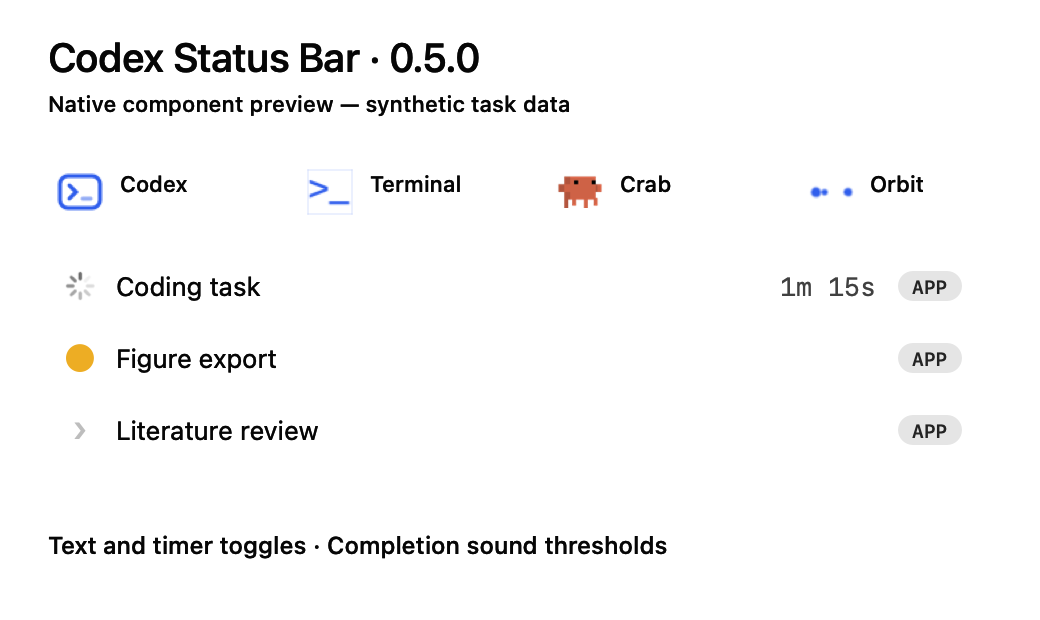
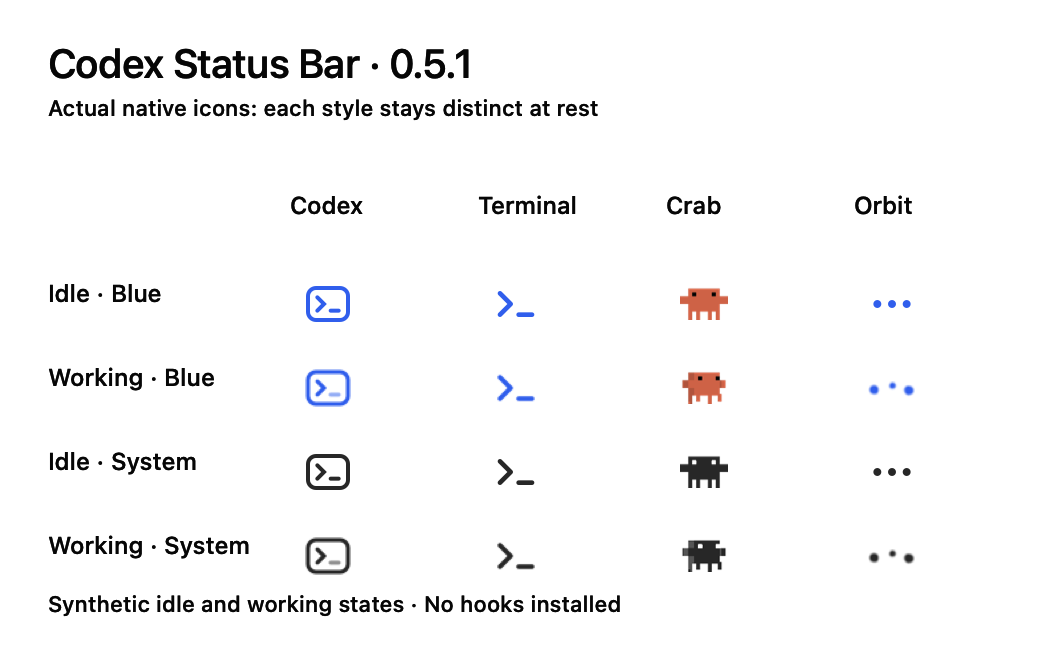
Keep all animation styles distinct while idle

diff --git a/tests/ui-smoke.swift b/tests/ui-smoke.swift
@@ -28,32 +28,67 @@ controller.showLabel = false
 precondition(controller.statusText(task, eff: "thinking").isEmpty)
 controller.showLabel = true
 
-let canvas = NSView(frame: NSRect(x: 0, y: 0, width: 520, height: 310))
+// Idle icons must differ at identical dimensions; selecting each menu item must update
+// the actual status button immediately, including after a working animation stops.
+let styles: [StatusController.AnimStyle] = [.web, .code, .crab, .mark]
+func pixels(_ image: NSImage) -> Data {
+    controller.flattened(image).tiffRepresentation!
+}
+for system in [false, true] {
+    controller.iconSystem = system
+    controller.iconCache.removeAll()
+    let color: NSColor? = system ? nil : controller.brand
+    var idleImages: [Data] = []
+    for style in styles {
+        let item = NSMenuItem(); item.representedObject = style.rawValue
+        controller.chooseStyle(item)
+        let expected = pixels(controller.restingIcon(color: color))
+        precondition(pixels(controller.statusItem.button!.image!) == expected, "Style selection did not update idle icon")
+        precondition(!idleImages.contains(expected), "Two animation styles share an idle icon")
+        idleImages.append(expected)
+        controller.render(label: "Working", color: color, animate: true, startedAt: now)
+        var moved = false
+        for _ in 0..<12 {
+            controller.animStep()
+            moved = moved || pixels(controller.statusItem.button!.image!) != expected
+        }
+        precondition(moved, "Working animation is frozen on its resting image")
+        controller.render(label: "", color: color, animate: false, startedAt: 0)
+        while controller.markOutro { controller.animStep() }
+        precondition(pixels(controller.statusItem.button!.image!) == expected, "Task completion lost selected style")
+    }
+}
+
+let canvas = NSView(frame: NSRect(x: 0, y: 0, width: 520, height: 330))
 canvas.wantsLayer = true; canvas.layer?.backgroundColor = NSColor.windowBackgroundColor.cgColor
 func label(_ text: String, x: CGFloat, y: CGFloat, size: CGFloat = 13) {
     let v = NSTextField(labelWithString: text); v.font = .systemFont(ofSize: size, weight: .medium)
     v.frame = NSRect(x: x, y: y, width: 475, height: 25); canvas.addSubview(v)
 }
-label("Codex Status Bar · 0.5.0", x: 22, y: 268, size: 20)
-label("Native component preview — synthetic task data", x: 22, y: 240, size: 11)
-for (i, style) in [StatusController.AnimStyle.web, .code, .crab, .mark].enumerated() {
-    controller.animStyle = style
-    for frame in [0, 4, 12] { precondition(controller.iconImage(color: controller.brand, frame: frame).size.width > 0) }
-    let image = NSImageView(frame: NSRect(x: 28 + i * 125, y: 202, width: 24, height: 24))
-    image.image = controller.iconImage(color: controller.brand, frame: style == .mark ? 20 : 4)
-    image.imageScaling = .scaleProportionallyUpOrDown; canvas.addSubview(image)
-    label(["Codex", "Terminal", "Crab", "Orbit"][i], x: CGFloat(58 + i * 125), y: 200, size: 11)
+label("Codex Status Bar · 0.5.1", x: 22, y: 285, size: 20)
+label("Actual native icons: each style stays distinct at rest", x: 22, y: 258, size: 11)
+for (i, name) in ["Codex", "Terminal", "Crab", "Orbit"].enumerated() {
+    label(name, x: CGFloat(143 + i * 94), y: 210, size: 12)
 }
-for (i, tuple) in [("Coding task", "tool", "Running command"), ("Figure export", "permission", "Awaiting permission"), ("Literature review", "done", "Done")].enumerated() {
-    let session = StatusController.Session(json: ["state": tuple.1, "label": tuple.2, "chatTitle": tuple.0, "entrypoint": "codex-app", "startedAt": now - 75, "ts": now], id: "preview-\(i)")
-    let row = SessionRowView(id: session.id, width: 475)
-    row.frame.origin = NSPoint(x: 18, y: 155 - i * 36)
-    controller.configureSessionRow(row, session, eff: controller.effectiveState(session, now: now)); canvas.addSubview(row)
+for (row, tuple) in [("Idle · Blue", false, false), ("Working · Blue", false, true),
+                     ("Idle · System", true, false), ("Working · System", true, true)].enumerated() {
+    let y = 166 - row * 42
+    label(tuple.0, x: 22, y: CGFloat(y), size: 12)
+    for (i, style) in styles.enumerated() {
+        controller.animStyle = style
+        let color: NSColor? = tuple.1 ? nil : controller.brand
+        let icon = tuple.2 ? controller.iconImage(color: color, frame: style == .mark ? 50 : 8)
+                          : controller.restingIcon(color: color)
+        let view = NSImageView(frame: NSRect(x: 152 + i * 94, y: y, width: 24, height: 24))
+        view.image = icon; view.imageScaling = .scaleProportionallyUpOrDown
+        if tuple.1 { view.contentTintColor = .labelColor }
+        canvas.addSubview(view)
+    }
 }
-label("Text and timer toggles · Completion sound thresholds", x: 22, y: 20, size: 12)
+label("Synthetic idle and working states · No hooks installed", x: 22, y: 10, size: 11)
 canvas.layoutSubtreeIfNeeded()
 let rep = canvas.bitmapImageRepForCachingDisplay(in: canvas.bounds)!
 canvas.cacheDisplay(in: canvas.bounds, to: rep)
 let output = ProcessInfo.processInfo.environment["CODEX_STATUSBAR_UI_IMAGE"]!
 try rep.representation(using: .png, properties: [:])!.write(to: URL(fileURLWithPath: output))
-print("AppKit checks passed: menu options, animation rendering, completion sound gating, duplicate/interrupt suppression, long-running state, text toggle.")
+print("AppKit checks passed: distinct idle styles, immediate menu selection, working/idle transitions in both colors, menu options and completion sound gating.")

diff --git a/Sources/main.swift b/Sources/main.swift
@@ -437,7 +437,7 @@ final class StatusController: NSObject, NSMenuDelegate {
     let codeDip: CGFloat = 0.14 // glyph shrinks to this at each swap
     let codeSub = 18            // sub-frames per glyph (tween smoothness)
     let codeCycle: Double = 3.8 // seconds for the full loop (lower = faster)
-    lazy var codeGlyphMasks: [NSImage] = codeGlyphs.map { StatusController.glyphMask($0) }
+    lazy var codeGlyphMasks: [NSImage] = codeGlyphs.map { _ in StatusController.terminalMark() }
     let crabFPS: Double = 12.5 // matches the source GIF's 0.08s frame delay
     lazy var crabFrames: [NSImage] = StatusController.decodePNGs(clawdCrabFramePNGs)
     // Template frames: bright pixels (white eyes) become transparent holes so they're
@@ -1467,43 +1467,47 @@ final class StatusController: NSObject, NSMenuDelegate {
         return img
     }
 
-    // Rasterize a single glyph into a centered 60x60 alpha mask filling ~92%.
-    static func glyphMask(_ g: String) -> NSImage {
-        let attrs: [NSAttributedString.Key: Any] = [
-            .font: NSFont.systemFont(ofSize: 180), .foregroundColor: NSColor.black,
-        ]
-        let str = NSAttributedString(string: g, attributes: attrs)
-        let sz = str.size()
-        let big = NSImage(size: sz, flipped: false) { _ in str.draw(at: .zero); return true }
-        guard let rep = big.tiffRepresentation.flatMap(NSBitmapImageRep.init(data:)) else {
-            return NSImage(size: NSSize(width: 60, height: 60))
-        }
-        let w = rep.pixelsWide, h = rep.pixelsHigh, data = rep.bitmapData!
-        var minx = w, miny = h, maxx = -1, maxy = -1
-        for y in 0..<h { for x in 0..<w where data[(y*w+x)*4+3] > 20 {
-            minx = min(minx, x); maxx = max(maxx, x); miny = min(miny, y); maxy = max(maxy, y)
-        }}
-        guard maxx >= 0 else { return NSImage(size: NSSize(width: 60, height: 60)) }
-        let bw = CGFloat(maxx - minx + 1), bh = CGFloat(maxy - miny + 1)
-        let out: CGFloat = 60, fill = out * 0.92
-        let scale = fill / max(bw, bh)
-        let dw = bw * scale, dh = bh * scale
-        // NSBitmapImageRep origin is top-left; convert the bbox to bottom-left for drawing.
-        let srcRect = NSRect(x: CGFloat(minx), y: CGFloat(h - maxy - 1), width: bw, height: bh)
-        return NSImage(size: NSSize(width: out, height: out), flipped: false) { _ in
-            big.draw(in: NSRect(x: (out - dw)/2, y: (out - dh)/2, width: dw, height: dh),
-                     from: srcRect, operation: .sourceOver, fraction: 1.0)
+    // Keep each animation recognisable at rest, too. A shared Codex logo here made
+    // selecting Terminal or Orbit appear to do nothing until a task started.
+    static func terminalMark() -> NSImage {
+        let img = NSImage(size: NSSize(width: 18, height: 18), flipped: false) { _ in
+            NSColor.black.setStroke()
+            let prompt = NSBezierPath()
+            prompt.move(to: NSPoint(x: 3, y: 5))
+            prompt.line(to: NSPoint(x: 7, y: 9))
+            prompt.line(to: NSPoint(x: 3, y: 13))
+            prompt.lineWidth = 1.75; prompt.lineCapStyle = .round; prompt.lineJoinStyle = .round
+            prompt.stroke()
+            let cursor = NSBezierPath()
+            cursor.move(to: NSPoint(x: 10, y: 5)); cursor.line(to: NSPoint(x: 15, y: 5))
+            cursor.lineWidth = 1.75; cursor.lineCapStyle = .round; cursor.stroke()
             return true
         }
+        img.isTemplate = true
+        return img
+    }
+
+    static func orbitRestMark() -> NSImage {
+        let img = NSImage(size: NSSize(width: 18, height: 18), flipped: false) { _ in
+            NSColor.black.setFill()
+            for x: CGFloat in [2, 7.5, 13] {
+                NSBezierPath(ovalIn: NSRect(x: x, y: 7.5, width: 3, height: 3)).fill()
+            }
+            return true
+        }
+        img.isTemplate = true
+        return img
     }
 
     let logoSet: [NSImage] = [StatusController.codexMark()]
+    let orbitRestSet: [NSImage] = [StatusController.orbitRestMark()]
     func restingIcon(color: NSColor?) -> NSImage {
-        if animStyle == .crab { return crabIcon(color: color, frame: 0) }
-        if animStyle == .mark, let logo = logoSet.first {
-            return markLayer(logo, color: color, scale: markSparkScale)
+        switch animStyle {
+        case .web: return tint(logoSet, color: color, frame: 0)
+        case .code: return codeIcon(color: color, glyph: 0, scale: 1)
+        case .crab: return crabIcon(color: color, frame: 0)
+        case .mark: return tint(orbitRestSet, color: color, frame: 0)
         }
-        return tint(logoSet.isEmpty ? frames : logoSet, color: color, frame: 0)
     }
 
     func markLayer(_ mask: NSImage, color: NSColor?, scale: CGFloat) -> NSImage {
@@ -1541,8 +1545,8 @@ final class StatusController: NSObject, NSMenuDelegate {
             if tail < markFadeFrames { sparkAlpha = 1 - CGFloat(tail) / CGFloat(markFadeFrames) }
         }
         let dots = markLayer(strip[step.frame], color: color, scale: markDotScale)
-        guard sparkAlpha > 0, let logo = logoSet.first else { return dots }
-        let spark = markLayer(logo, color: color, scale: markSparkScale)
+        guard sparkAlpha > 0 else { return dots }
+        let spark = restingIcon(color: color)
         let img = NSImage(size: NSSize(width: 18, height: 18), flipped: false) { _ in
             dots.draw(at: .zero, from: .zero, operation: .sourceOver, fraction: 1 - sparkAlpha)
             spark.draw(at: .zero, from: .zero, operation: .sourceOver, fraction: sparkAlpha)

diff --git a/docs/VALIDATION.md b/docs/VALIDATION.md
@@ -1,5 +1,12 @@
 # Validation — 8 October 2026
 
+## 0.5.1 icon regression checks
+
+- In both Blue and System modes, all four resting icons have distinct rendered pixels.
+- Selecting each style updates the actual status button immediately while idle.
+- Each style animates while working and returns to its own resting image on completion.
+- Native icon grid rendered and visually inspected; 18 Node tests still pass.
+
 ## Passed locally
 
 - 18 Node tests: configuration preservation and one-time backups, idempotent installation, uninstall ownership, malformed config handling, shell quoting, empty PATH handling, parallel hook writers, per-tool approval priority, steering/timer preservation, duplicate/late completion, compaction, input requests, interruption, transcript partial writes and UTF-8 boundaries, and exclusion of CLI/subagent rollouts from the desktop fallback.

diff --git a/CHANGELOG.md b/CHANGELOG.md
@@ -1,5 +1,11 @@
 # Changelog
 
+## 0.5.1 — 2026-10-08
+
+- Give Codex, Terminal, Crab and Orbit distinct resting icons, so selecting a style is visible immediately.
+- Keep Orbit as dots when its animation settles; draw the Terminal prompt as crisp vector strokes.
+- Add native regression checks for distinct idle images, immediate style changes, and working/idle transitions in both color modes.
+
 ## 0.5.0 — 2026-10-08
 
 First Codex adaptation based directly on Claude Status Bar 0.4.5 (`dafb0c8`). Retains Orbit animation, text/timer toggles, completion-sound thresholds and rendering optimisations. Adds Codex hook handling, desktop event monitoring, interruption handling, per-tool concurrency, session links and distinct local storage.
